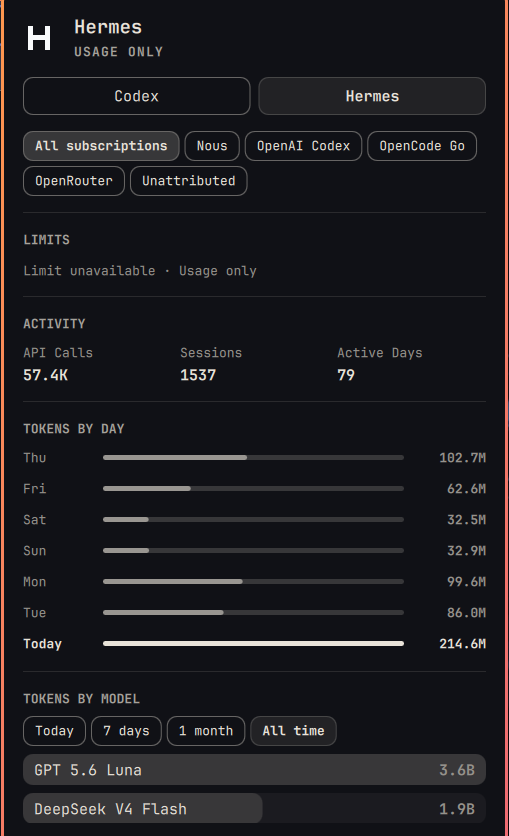
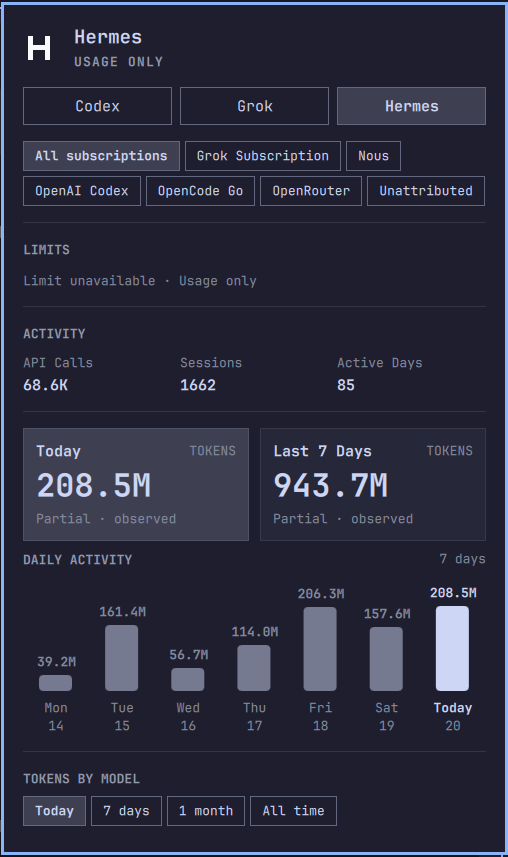
docs: refresh panel screenshot for the summary cards and activity chart

diff --git a/README.md b/README.md
@@ -44,7 +44,7 @@ The **TOKENS BY MODEL** section defaults to **Today** and offers four local-cale
 
 The panel combines provider tabs, today and last-7-days token cards, a daily activity chart, and a model-level token breakdown. The values shown below are real local usage statistics from the captured demo machine; every installation displays its own local records.
 
-![AI Agents Usage panel showing provider tabs, token history, and model usage](assets/hermes-usage-panel.png)
+![AI Agents Usage panel showing provider tabs, token summary cards, a daily activity chart, and model usage](assets/hermes-usage-panel.png)
 
 ## Requirements
 
